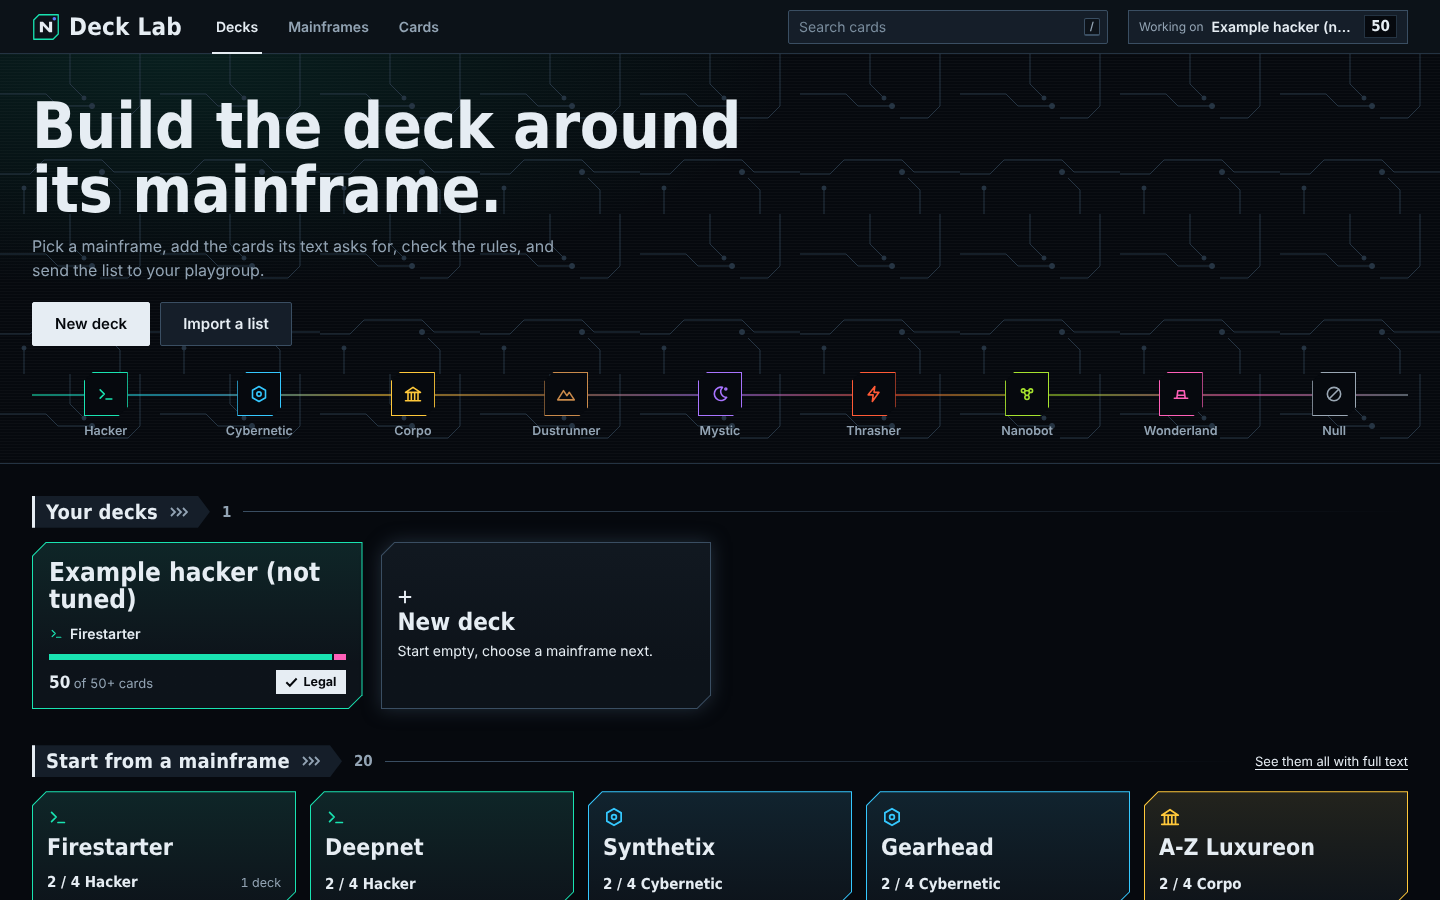
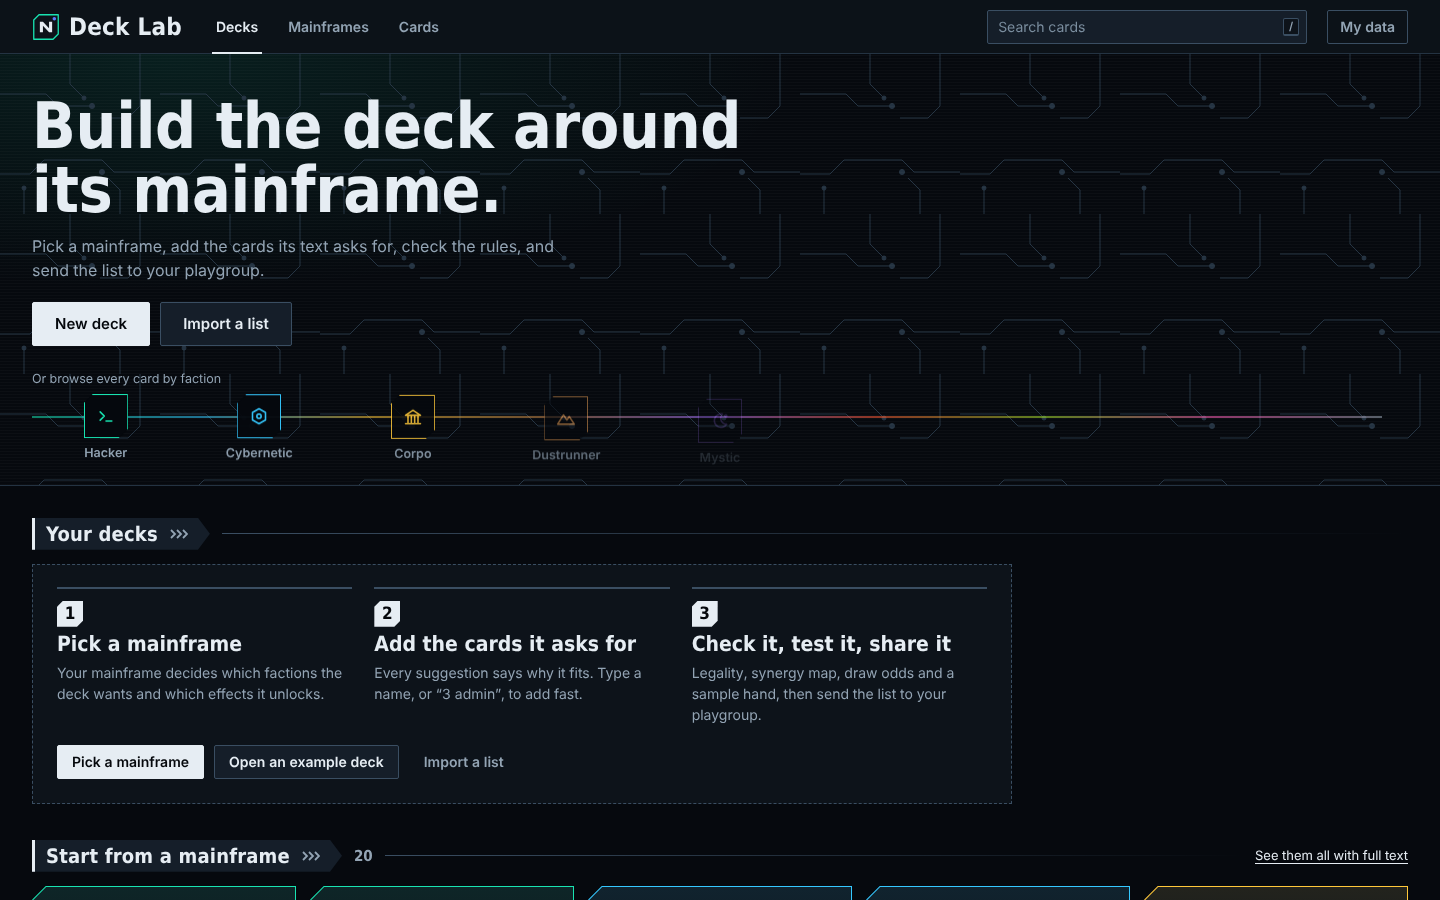
Update docs and screenshots for synergy, tags, playtest and phone layout
Refresh README, CLAUDE.md and design notes, and add desktop and phone
screenshots for the new views.

Claude-Session: https://claude.ai/code/session_01MQeGdiVjYnjq85JaeTnTiU

diff --git a/CLAUDE.md b/CLAUDE.md
@@ -12,14 +12,18 @@ Static site, no build step, no dependencies. Open `index.html` through any stati
 - `src/lib/`: pure logic (deck rules, synergy, roles and suggestions, name search, share). Covered by `npm test`.
   - `roles.js`: role classification from rules text, `suggestForMainframe`, `suggestForDeck`.
   - `search.js`: fuzzy name search and the "3 admin" quick-add parser.
+  - `graph.js`: deck synergy graph (`deckGraph`, `viewGraph` strength filter, `partnersOf`, deterministic `layoutGraph`). Weights: name 3, tag 1.5, faction 1, subtype 1; strengths Named >=3, Strong >=2 (default), All >=1.
+  - `tags.js`: pure tag layer logic (`normalizeTags`, `mergeLayers`, `groupByTag`, `deckTagBoost`). `backup.js`: `buildBackup`/`parseBackup`/`mergeBackup` (never overwrites; same id with different content comes in as "(imported)").
+  - `odds.js`: hypergeometric odds, `cardsSeen`, sample hand (`newGame`, `mulligan`, `drawTurn`). Assumes every draw comes from the cyberdeck.
+  - `filters.js`: card-browser filters <-> URL query. `abilities.js`: ability cost wording (`costPhrase`).
 - `src/main.js`: boot, hash router, top bar. `src/router.js`: route parsing. `src/store.js`: decks in localStorage (`neuroscape-deck-lab:v1`, `{decks, activeId}`). `src/tagstore.js`: the tag layers (`neuroscape-deck-lab:tags:v1`, same shape as `data/my_tags.json`). Small prefs live in `neuroscape-deck-lab:prefs:v1`.
-- `src/views/`: one module per page (`home.js` also holds the mainframe list, `mainframe.js`, `deck.js`, `cards.js`, `detail.js` = card drawer). Each `mount*` returns `{refresh, destroy}`.
-- `src/ui/`: shared pieces (`card.js` notched card frame and chevron banner, `parts.js` mainframe meter and tiles, `glyphs.js` faction icons, `combo.js` combobox, `dialogs.js`, `dom.js`).
+- `src/views/`: one module per page (`home.js` also holds the mainframe list, `mainframe.js`, `deck.js` (Cards tab, hosts the other tabs), `synergy.js` (map and list), `playtest.js` (odds and sample hand), `cards.js`, `detail.js` = card drawer incl. tag editing). Each `mount*` returns `{refresh, destroy}`.
+- `src/ui/`: shared pieces (`card.js` notched card frame and chevron banner, `parts.js` mainframe meter and tiles, `glyphs.js` faction icons, `combo.js` combobox, `dialogs.js` (incl. My data: tags and backup), `tags.js` tag chips, `dom.js`).
 - `src/style.css`: all styling, dark only. Design rationale in `docs/design.md`; screenshots in `docs/screenshots/`.
 - `decks/*.txt`: saved deck lists in the app's text format. `node scripts/check-deck.mjs decks/<file>.txt` validates one.
 
 ## Routes (hash)
-`#/decks` (home), `#/deck/<id>`, `#/mainframes`, `#/mainframe/<id>`, `#/cards`, `#/card/<id>` (drawer over the previous page). Old share links `#d=<base64>` still open as a new deck.
+`#/decks` (home), `#/deck/<id>` (tabs: `#/deck/<id>/synergy`, `#/deck/<id>/playtest`), `#/mainframes`, `#/mainframe/<id>`, `#/cards` (filters live in the query, e.g. `#/cards?fac=Hacker&type=Program&my=ramp`; see `src/lib/filters.js`), `#/card/<id>` (drawer over the previous page). Old share links `#d=<base64>` still open as a new deck.
 
 ## Working on decks with the owner
 1. Read the deck file and the card text for every card in it (from `src/data/cards.js`).

diff --git a/README.md b/README.md
@@ -6,8 +6,12 @@ An unofficial, fan-made deck builder for the Neuroscape TCG (Genesis set). Brows
 Once GitHub Pages is on, the site is at `https://<your-user>.github.io/<repo>/`.
 
 - **Home**: your saved decks and the 20 mainframes. Start a deck from a mainframe or import a list.
-- **Mainframe pages**: what each mainframe wants, with suggestions grouped by role (characters, draw, RAM, removal, finishers, gear, tricks, engines). Each says why it fits. Suggestions come from card text, not play statistics.
+- **Mainframe pages**: what each mainframe wants, with suggestions grouped by role (characters, draw, RAM, removal, direct damage, disruption, finishers, gear, tricks, engines). Each says why it fits. Suggestions come from card text, not play statistics.
 - **Deck page**: dense list grouped by type, RAM or faction, quantity steppers, mainframe tier meter, RAM curve, faction mix, legality, sideboard, notes, and a type-to-add box (try "3 admin" then Enter; Shift+Enter adds to the sideboard). A suggestions panel offers one-click adds.
+- **Synergy tab** (deck page): a map of how the cards in the deck connect, grouped by faction. Pick Named only, Strong or All links; select a card to see its partners and why; loose cards are listed with cards that would fit better. List view is the default on phones.
+- **Playtest tab**: draw odds (chance of at least N cards of a kind by each turn, going first or second) and a sample hand with mulligan and next-turn draws. Odds assume every draw comes from the cyberdeck; the separate 25-card RAM deck is not modelled.
+- **Cards page links**: filters are kept in the address, so a filtered view can be bookmarked or shared.
+- **First visit**: Home explains three steps and offers an example deck.
 - **Ability costs** read like the rulebook: "Run 2 RAM and run this character" means two separate costs (run 2 RAM, and rotate the character).
 - **Cards**: filter by type, faction, RAM cost, subtype, tag and rarity or search rules text. Open a card to see what it works with and what asks for it.
 - **Your tags**: make your own tags ("ramp", "burst", "draw engine") from any card's details, filter the Cards page by them, show them on deck rows, group a deck by them, and let suggestions prefer cards that share a tag with your deck. Tags stay in your browser. **My data** (top right) manages tags and downloads or imports one backup file with all decks and tags; importing merges and never overwrites. To share tags with the playgroup, commit them to `data/my_tags.json` (same shape; ask your Claude to fill it in). Your own edits layer on top of that file.

diff --git a/docs/design.md b/docs/design.md
@@ -107,3 +107,16 @@ Draft 1 had glowing faction borders on every tile, a green "legal" and red "ille
 - Mainframe meter is a segmented gauge (console-like) rather than a smooth progress bar.
 
 Motion: the segmented meter fills once on load of a deck or mainframe page, and the home hero traces draw once. Both are disabled by `prefers-reduced-motion`, as are scanlines.
+
+## Added in the second pass
+
+New components, all built from the same frame and banner:
+- **Deck tabs** (Cards / Synergy / Playtest): a quiet underline row, one active tab, shared deck header above.
+- **Synergy map**: one disc per faction, nodes sized by RAM cost and coloured by faction, edges only for links at or above the chosen strength (Strong by default, so a 50-card deck stays readable). The biggest cluster is the hub; others ring around it. Labels sit in a separate layer and are greedily decluttered; the selected card's label is always shown. Loose cards are a list beside the map, not a red alarm. Phones default to the list because a 390px map is too small to read.
+- **Tag chips**: a 3px colour stripe on a neutral chip. Tag colours are six muted hexes, deliberately not saturated, so faction colour stays the only loud colour and blue/red stay reserved for damage.
+- **Odds chart**: nine bars (opening hand plus eight turns), the big opening percentage on the left, cards seen under each bar. Bars use the signal colour only.
+- **Mini cards** for the sample hand: the same notched frame at tile size, with a Send back toggle in the footer.
+- **Phone deck strip**: legality, minimum count and the tier meter sit in one compact block before anything else; stats collapse into disclosure rows; list rows have 44px tap targets and the name opens the drawer.
+- **First-run Home**: three numbered steps (a real sequence, so numbering is justified) and one primary action.
+
+Assumptions shown in the UI rather than hidden: odds assume all draws come from the cyberdeck and the RAM deck is not modelled; synergy weights are heuristic; role labels come from regexes on rules text.
